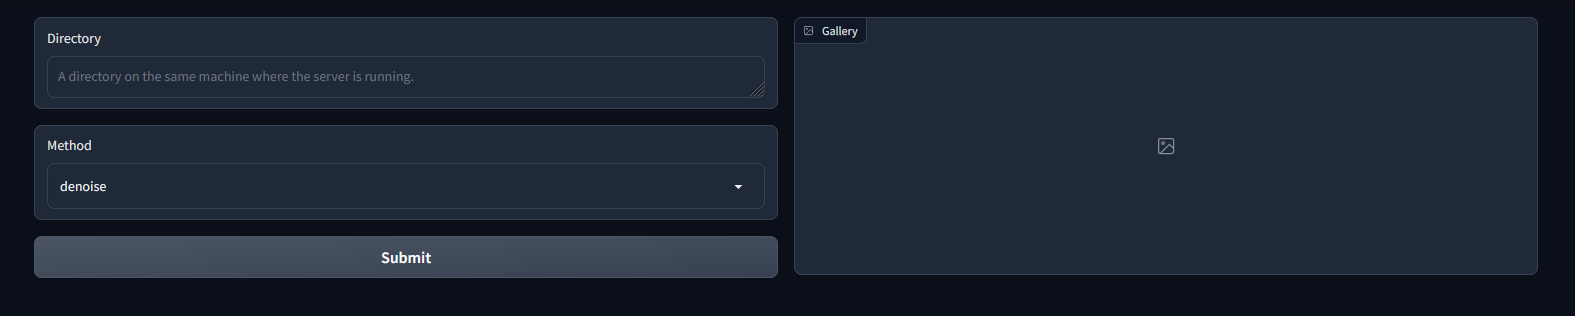
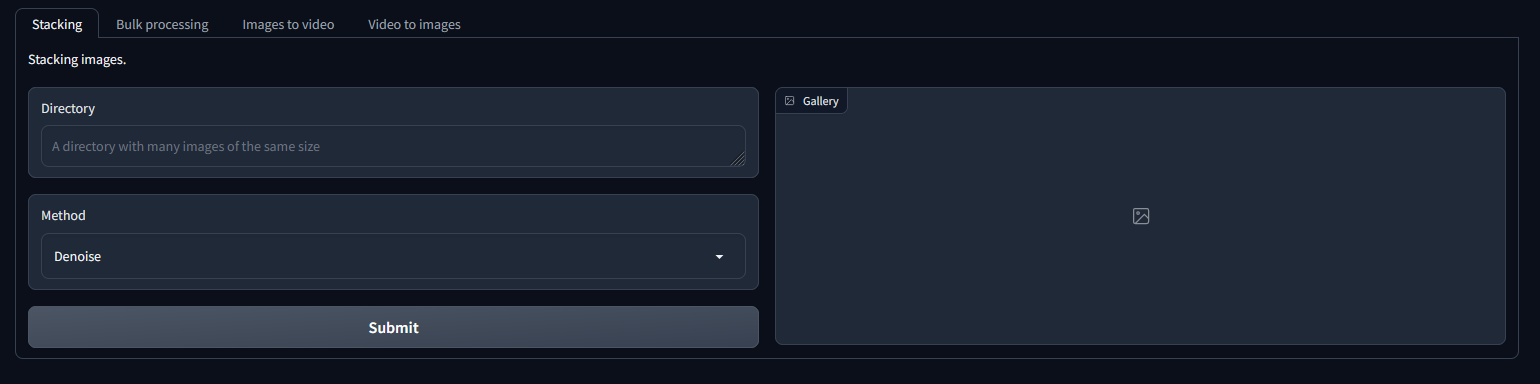
doc: more examples

diff --git a/README.md b/README.md
@@ -1,6 +1,6 @@
 # Image-Pluser WebUI Application
 
-Image-Pluser is a web user interface (WebUI) application built on top of Gradio that allows users to stack photos using different methods. The application provides a simple and intuitive interface for users to upload multiple images and combine them in various ways.
+Image-Pluser is a Web User Interface (WebUI) application that allows users to process photos and videos in a variety of ways.
 
 ## Getting Started
 
@@ -10,23 +10,24 @@ To run Image-Pluser, follow these steps:
 2. Create venv: `python -m venv venv`
 3. Install the necessary dependencies: `pip install -r requirements.txt`
 4. Run the application: `python app.py`
-5. Access the application by visiting http://localhost:7860/ in your web browser.
+5. Access the application by visiting <http://localhost:7860/> in your web browser.
 
 ### one-click-installers
 
 Just download and run the file in `scripts/one-click` (you need git and python3).
 
-# Available Methods
+## Available Stacking Methods
 
 1. Denoising: Removes noise from the image (pictures should not move)
 2. StarTracks: Creates star tracks (the pictures should show the sky, which gradually moves)
-3. Noise extractor: Gets all the noise in the image (actually makes nonsense)
-4. Untrack: Removes stars from the sky (pictures are the same as in StarTracks)
+3. Untrack: Removes stars from the sky (pictures should not move)
+4. Noise extractor: Gets all the noise in the image (actually makes nonsense)
 
-# Examples
+## Examples
 
 Denoise
 ![denoise](imgs/examples/denoise.png)
+![denoise2](imgs/examples/denoise2.png)
 
 StarTracks
 ![startracks](imgs/examples/startracks.png)
@@ -34,10 +35,10 @@ StarTracks
 Ui
 ![ui](imgs/examples/ui.png)
 
-# Contributing
+## Contributing
 
 Contributions to Image-Pluser are welcome! If you would like to contribute, please fork the repository and submit a pull request.
 
-# License
+## License
 
 This project is licensed under the MIT License. See the `LICENSE` file for details.
